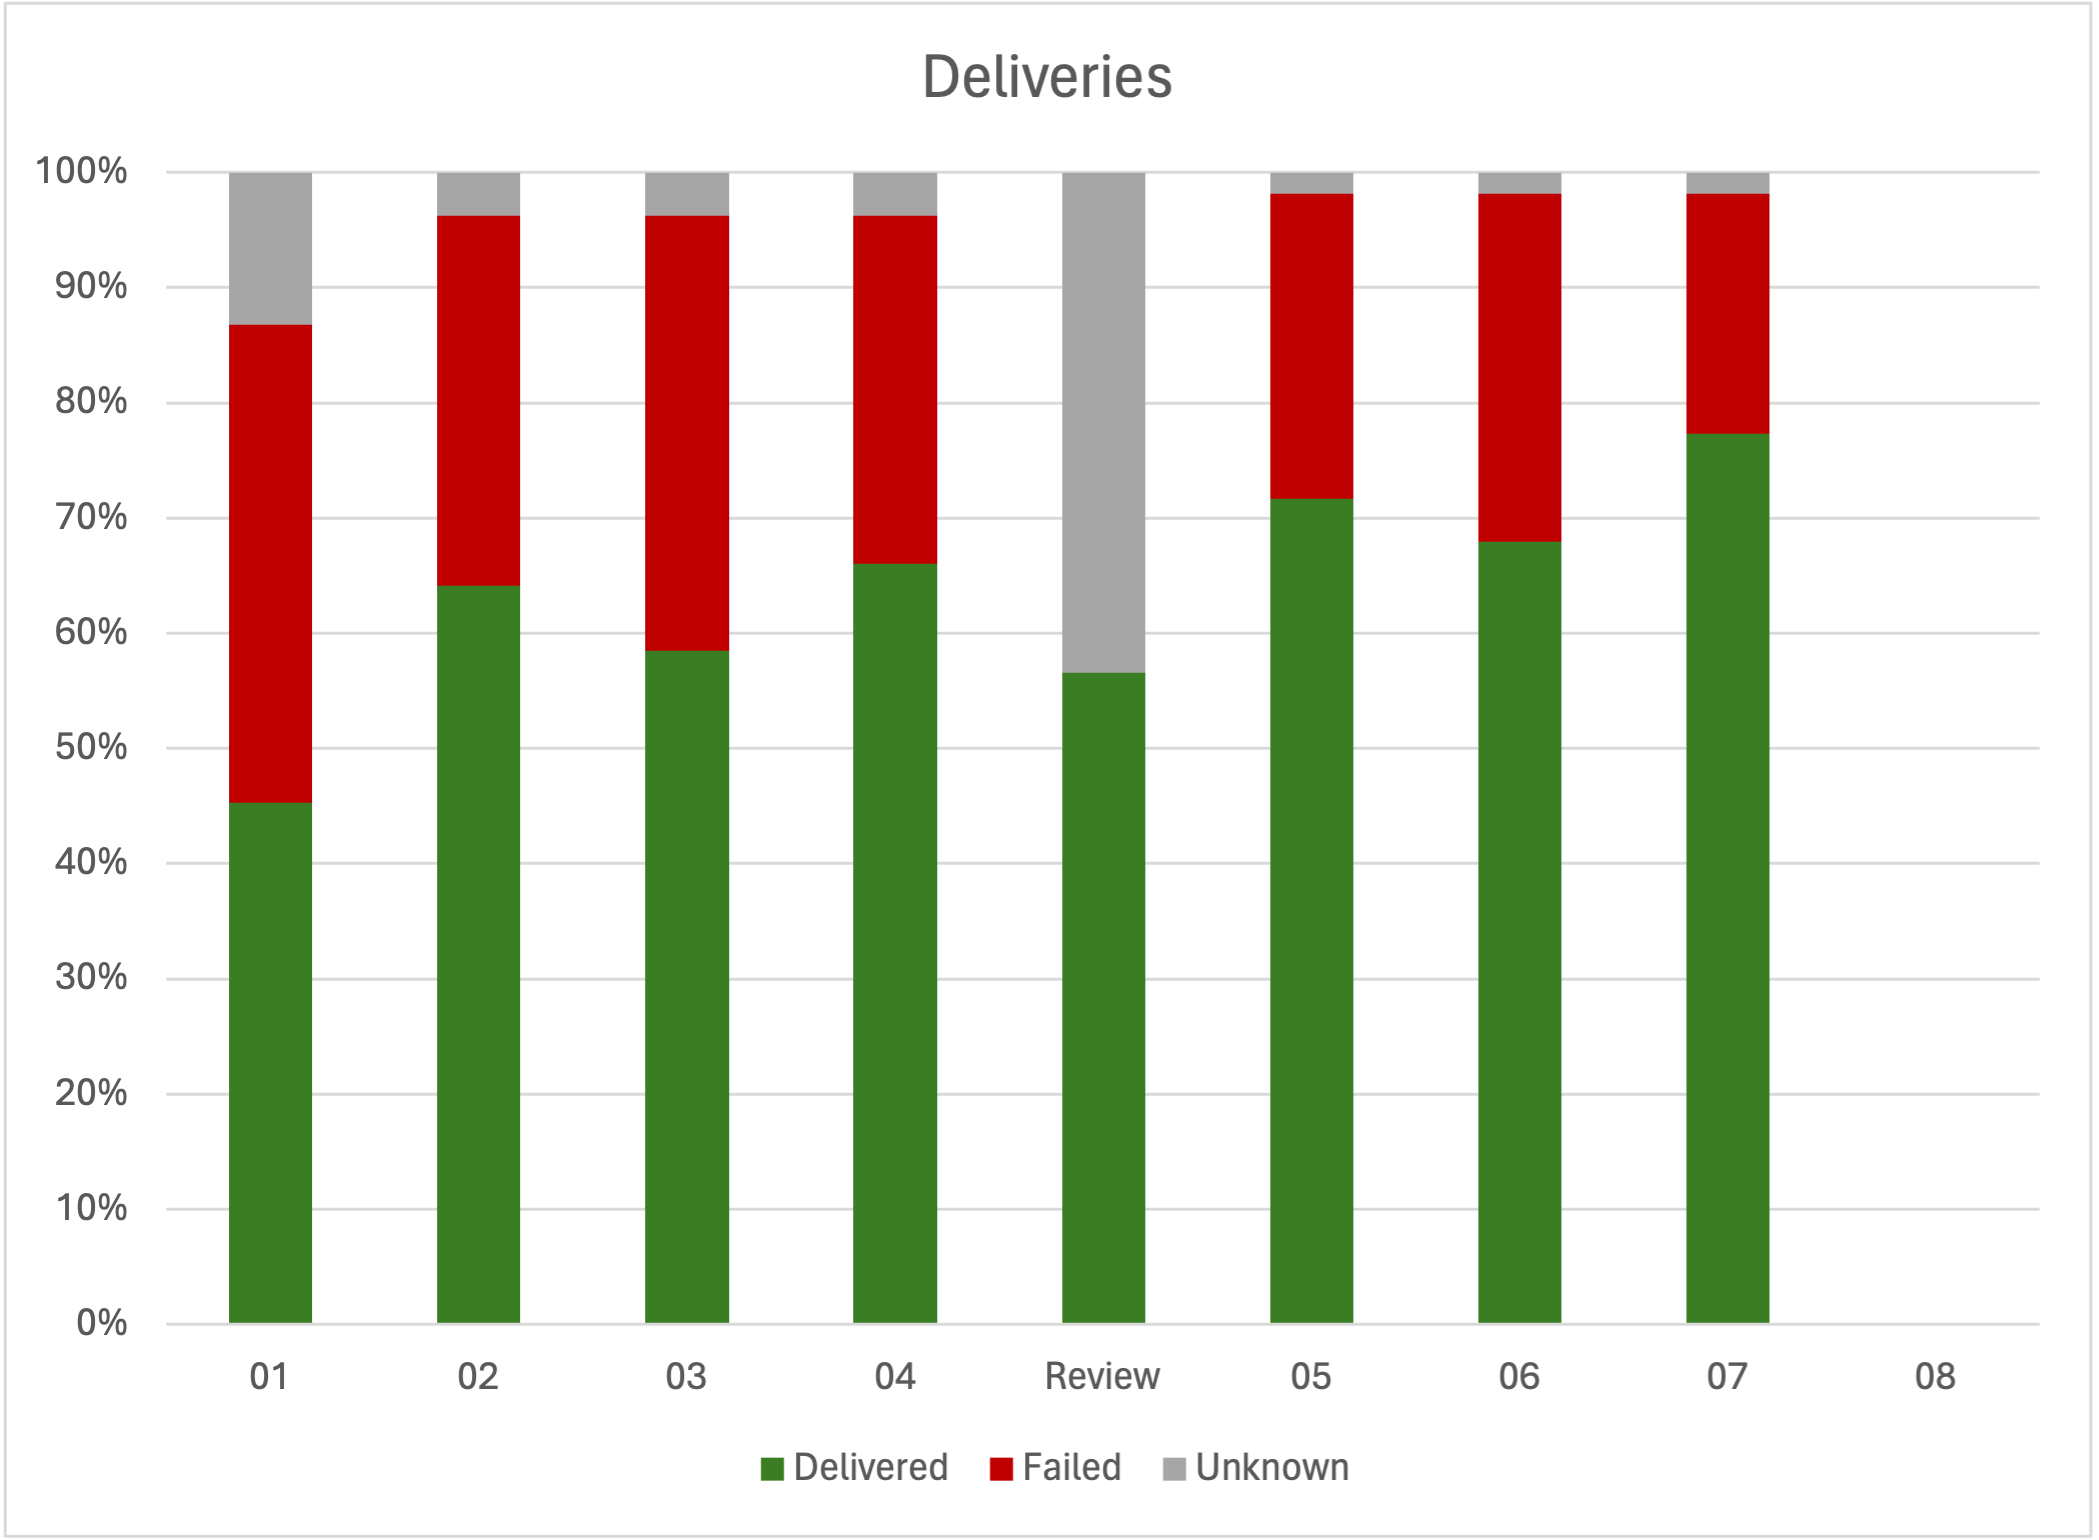
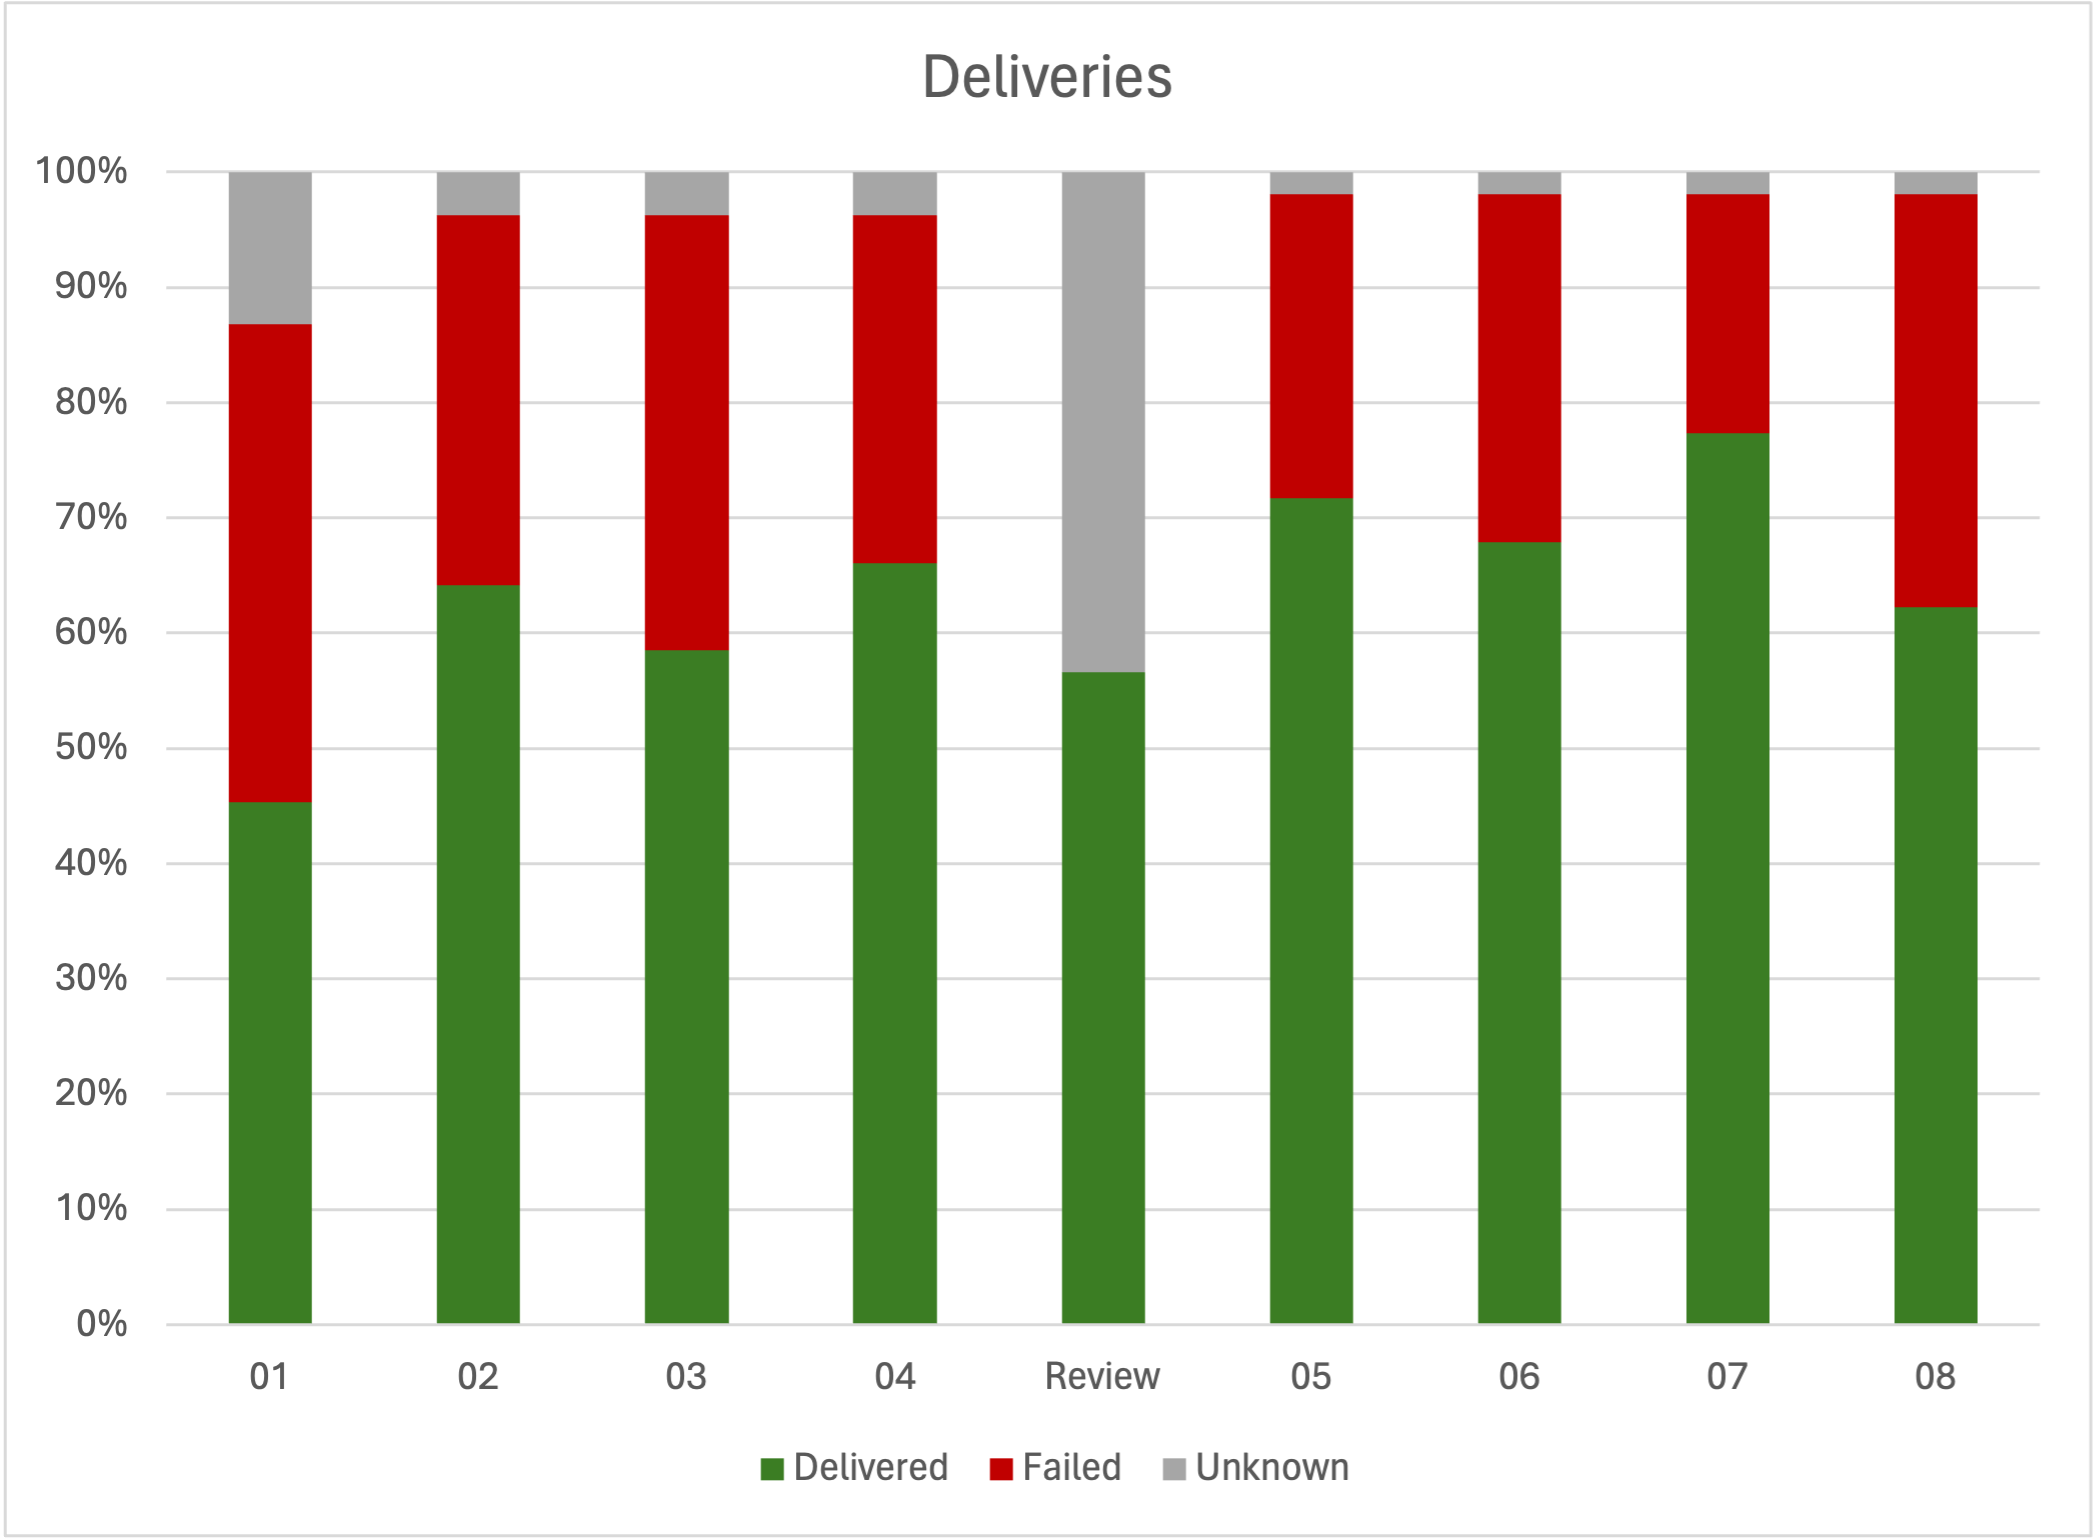
final graphs

Changed region(s): [[0.898, 0.0935, 0.96, 0.8727], [0.031, 0.6234, 0.0619, 0.6545], [0.031, 0.2494, 0.0619, 0.2805]]

diff --git a/README.md b/README.md
@@ -22,6 +22,6 @@
 | 05 | [delivery](missions/week_05/delivery_log.txt) | [simulation](missions/week_05/README.md) | [map](missions/week_05/_map.pdf) | [pois](./missions/week_05/_pois.json) | [errors](./missions/week_05/_error_log.txt)
 | 06 | [delivery](missions/week_06/delivery_log.txt) | [simulation](missions/week_06/README.md) | [map](missions/week_06/_map.pdf) | [pois](./missions/week_06/_pois.json) | [errors](./missions/week_06/_error_log.txt)
 | 07 | [delivery](missions/week_07/delivery_log.txt) | [simulation](missions/week_07/README.md) | [map](missions/week_07/_map.pdf) | [pois](./missions/week_07/_pois.json) | [errors](./missions/week_07/_error_log.txt)
-| 08 |||||
+| 08 | [delivery](missions/week_08/delivery_log.txt) | [simulation](missions/week_08/README.md) | [map](missions/week_08/_map.pdf) | [pois](./missions/week_08/_pois.json) | --
 
 </div>
